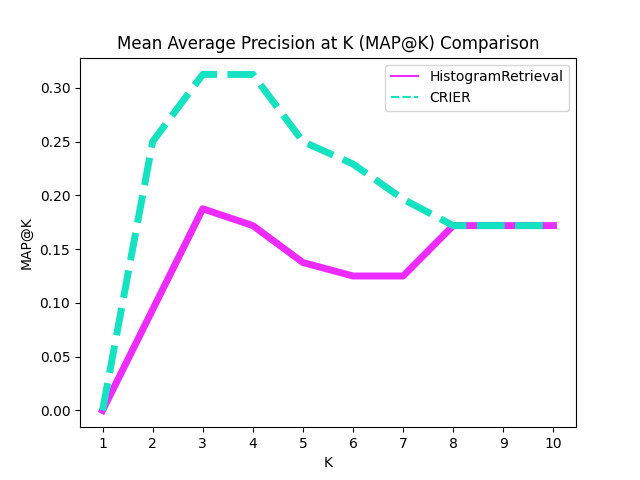
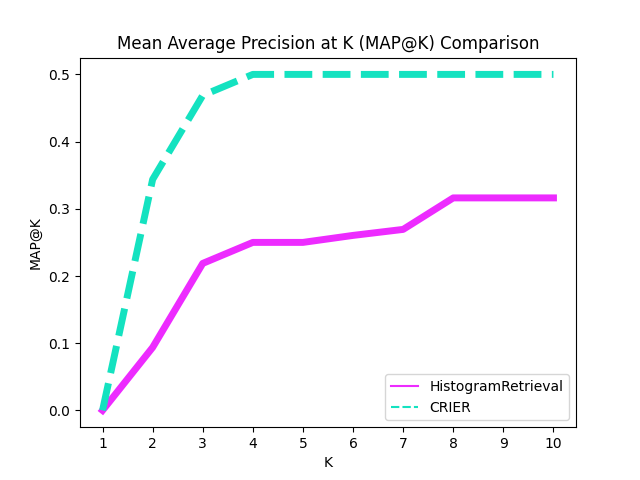
Fix part of chart.

diff --git a/backend/evaluation.py b/backend/evaluation.py
@@ -24,11 +24,11 @@ def slice_columns(arr, k=5):  # assumes 2d array
     return [v[:k] for v in arr]
 
 def calc_mapk(actual, expected, k):
-    mapk = metrics.mapk(slice_columns(actual, k), slice_columns(expected, k))
+    mapk = metrics.mapk(expected, slice_columns(actual, k), k)
     return mapk
 
 def calc_mark(actual, expected, k):
-    mark = recmetrics.mark(slice_columns(actual, k), slice_columns(expected, k))
+    mark = recmetrics.mark(expected, slice_columns(actual, k), k)
     return mark
 
 # The first values' most similar image is the second value.
@@ -133,8 +133,7 @@ def topKPresent(k, actuals, expecteds, image_names):
     expected_paths: [[relevant_img11, relevant_img12, ..., relevant_img1M],
                      [relevant_img21, relevant_img22, ..., relevant_img2M],
                      ...
-                     [relevant_imgN1, relevant_imgN2, ..., relevant_imgNM]]
-                             
+                     [relevant_imgN1, relevant_imgN2, ..., relevant_imgNM]]                   
 '''
 def precision(actual_paths, expected_paths, k, image_names):
     n = len(image_names)
@@ -177,7 +176,7 @@ def run(use_cifar=False, use_imagenette=False):
       expected_paths = [similar_images[img_name] for img_name in test_image_names]
 
     num_results = 25 if use_cifar or use_imagenette else 10
-    k_range = range(4, 21) if use_cifar or use_imagenette else range(1, 11)
+    k_range = range(1, 26) if use_cifar or use_imagenette else range(1, 11)
     output_mapk = "mapk_cifar.png" if use_cifar or use_imagenette else "mapk_custom.png"
     output_mark = "mark_cifar.png" if use_cifar or use_imagenette else "mark_custom.png"
 
@@ -200,14 +199,13 @@ def run(use_cifar=False, use_imagenette=False):
         hist_actual_paths.append(image_paths)
     hist_actual_paths = get_basenames(hist_actual_paths)
 
-  # Run CRIER on dataset, retrieve top-k images, and save total time.
+    # Run CRIER on dataset, retrieve top-k images, and save total time.
     crier_actual_paths = []
     for test_image_name in test_image_names:
         _, image_paths, distances = crier_retriever.search(index_image_corpus, test_image_name)
         crier_actual_paths.append(image_paths)
     crier_actual_paths = get_basenames(crier_actual_paths)
 
-  # Evaluate Histogram and CRIER retrievers. Need to compare total times taken.
     # Evaluate Histogram and CRIER retrievers. Need to compare total times taken.
     hist_mapks = []
     hist_marks = []

diff --git a/backend/utils.py b/backend/utils.py
@@ -46,8 +46,13 @@ def load_image_id_arr_map(image_id_pil_map):
 # Build dict mapping image ids to embeddings.
 def load_image_id_embedding_map(model, image_id_arr_map):
   map = dict()
-  batched_img_arrs = np.array(list(image_id_arr_map.values()))
+  inputs = []
+  for k in sorted(image_id_arr_map.keys()):
+    inputs.append(image_id_arr_map[k])
+  
+  batched_img_arrs = np.array(inputs)
   predictions = model.predict(batched_img_arrs)
+  print(len(predictions))
   for idx, embedding in enumerate(predictions):
     map.update({idx: embedding})
 

diff --git a/backend/model.py b/backend/model.py
@@ -10,7 +10,7 @@ import search_engine
 import model_defs
 
 class CRIER(object):
-    def __init__(self, model_dir, image_size, num_results=10, batch_size=model_defs.BATCH_SIZE):
+    def __init__(self, model_dir, image_size, num_results, batch_size=model_defs.BATCH_SIZE):
       self.num_results = num_results
       self.image_size = image_size
       self.batch_size = batch_size
